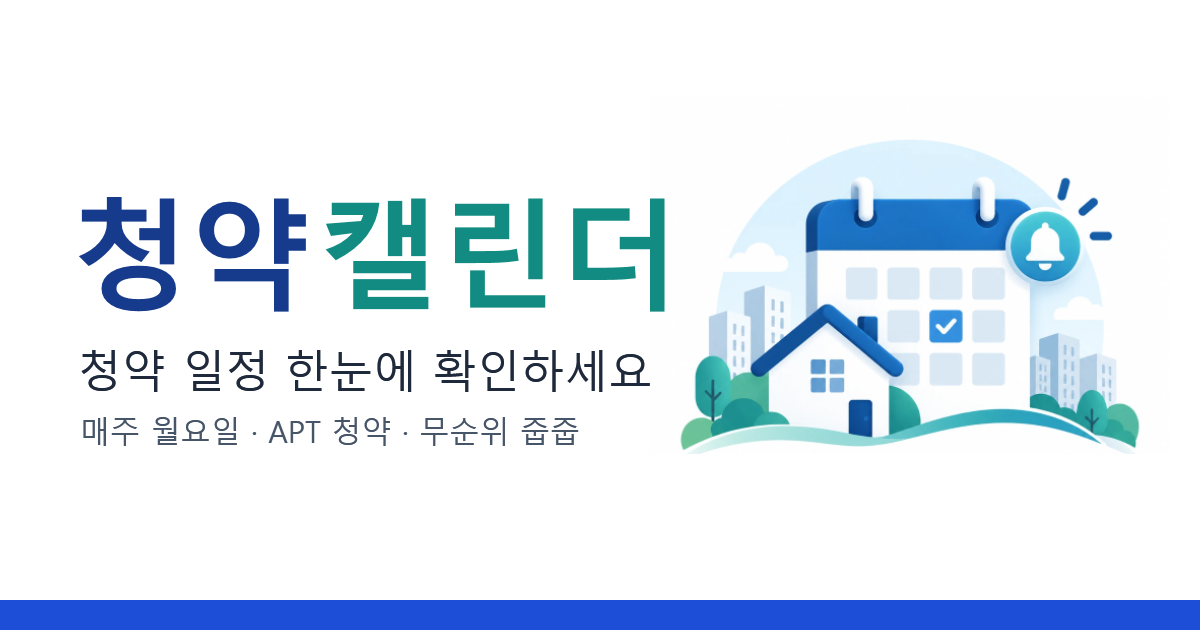
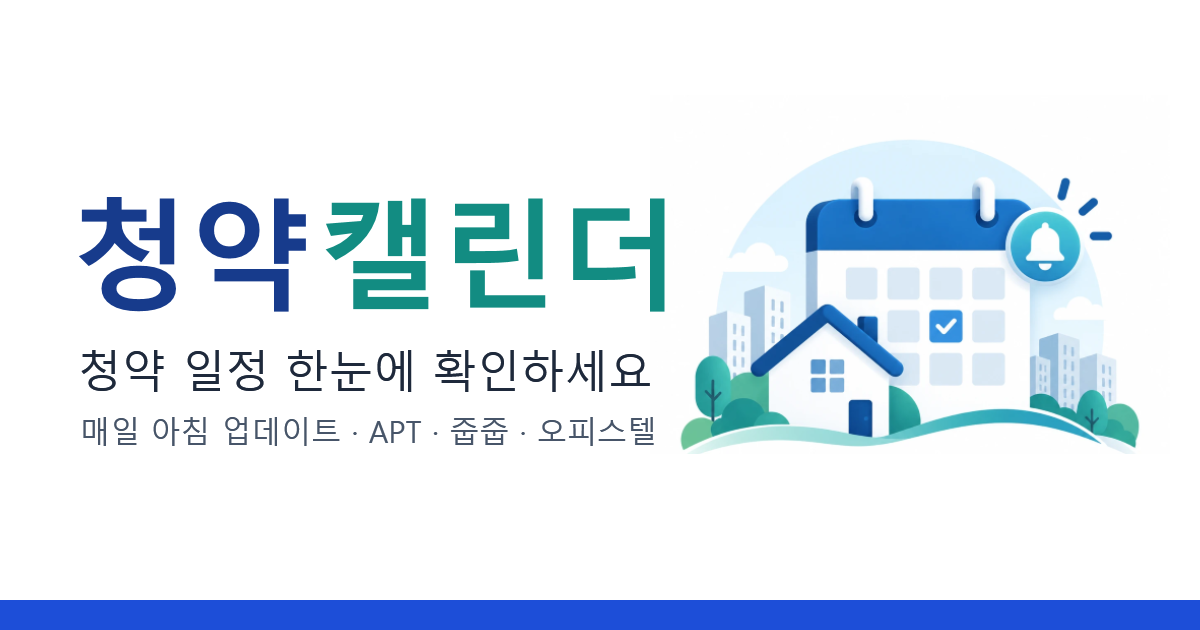
매일 업데이트 문구로 변경

Changed region(s): [[0.0925, 0.6635, 0.555, 0.7238]]

diff --git a/theme-chrome.html b/theme-chrome.html
@@ -6,7 +6,7 @@
 <form action='/search' class='cc-search' method='get'><input aria-label='블로그 검색' name='q' placeholder='🔍 단지명, 지역 검색' type='search'/></form>
 </div></header>
 <b:if cond='data:blog.url == data:blog.homepageUrl'>
-<section class='cc-hero'><div class='cc-in'><div><span class='cc-pill'>📅 매주 월요일 업데이트</span><h2>이번 주 청약 일정, 한 페이지로</h2>
+<section class='cc-hero'><div class='cc-in'><div><span class='cc-pill'>📅 매일 아침 업데이트</span><h2>이번 주 청약 일정, 한 페이지로</h2>
 <p>APT 청약부터 무순위 줍줍까지 · 접수중·D-day 자동 표시 · 모집공고 바로가기</p></div><span class='cc-hero-logo'/></div></section>
 <div class='cc-alert' id='cc-alert'/>
 </b:if>
@@ -23,16 +23,16 @@
 <script>//<![CDATA[
 (function(){var a=document.getElementById('cc-alert');if(!a)return;var on=0,today=0,soon=0;
 document.querySelectorAll('.cy-badge').forEach(function(b){var t=b.textContent;if(t==='오늘 마감'){today++;on++}else if(t==='접수중'){on++}else if(/^D-/.test(t)){soon++}});
-var nx=document.querySelectorAll('.cy-next li').length;a.innerHTML=(on+soon)?'<div>⏰ <span>오늘 마감 <b>'+today+'곳</b></span><span>지금 접수중 <b>'+on+'곳</b></span>'+(soon?'<span>이번 주 접수 예정 <b>'+soon+'곳</b></span>':'')+(nx?'<span>다음 주 접수 예정 <b>'+nx+'곳</b></span>':'')+'</div>':'<div>✅ 이번 주 접수는 모두 끝났어요.'+(nx?' 다음 주 접수 예정 <b>'+nx+'곳</b>을 아래에서 확인하세요.':' 다음 주 일정은 월요일 아침에 올라옵니다.')+'</div>';})();
+var nx=document.querySelectorAll('.cy-next li').length;a.innerHTML=(on+soon)?'<div>⏰ <span>오늘 마감 <b>'+today+'곳</b></span><span>지금 접수중 <b>'+on+'곳</b></span>'+(soon?'<span>이번 주 접수 예정 <b>'+soon+'곳</b></span>':'')+(nx?'<span>다음 주 접수 예정 <b>'+nx+'곳</b></span>':'')+'</div>':'<div>✅ 이번 주 접수는 모두 끝났어요.'+(nx?' 다음 주 접수 예정 <b>'+nx+'곳</b>을 아래에서 확인하세요.':' 새 공고는 매일 아침 업데이트됩니다.')+'</div>';})();
 //]]></script>
 </b:if>
-<section class='cc-share'><div class='cc-in'><p><b>도움이 됐다면 청약 준비하는 친구·가족에게 알려주세요 🙌</b><br/>매주 월요일, 이번 주 청약 일정이 새로 올라옵니다.</p>
+<section class='cc-share'><div class='cc-in'><p><b>도움이 됐다면 청약 준비하는 친구·가족에게 알려주세요 🙌</b><br/>매일 아침, 새로 나온 청약 공고가 업데이트됩니다.</p>
 <button class='cc-share-btn' id='cc-share' type='button'>📤 이 페이지 공유하기</button></div></section>
 <script>//<![CDATA[
 (function(){var b=document.getElementById('cc-share');if(!b)return;b.onclick=function(){var d={title:document.title,text:'이번 주 청약 일정·줍줍 한눈에 보기 - 청약캘린더',url:location.href.split('?')[0]};
 if(navigator.share){navigator.share(d).catch(function(){})}else{navigator.clipboard.writeText(d.url).then(function(){b.textContent='✅ 링크가 복사됐어요'})}}})();
 //]]></script>
-<footer class='cc-foot'><div class='cc-in'><div><b>청약캘린더</b><p>매주 월요일, 이번 주 청약 일정을<br/>한 페이지로 정리합니다.</p></div>
+<footer class='cc-foot'><div class='cc-in'><div><b>청약캘린더</b><p>매일 아침, 새로 나온 청약 일정을<br/>한 페이지로 정리합니다.</p></div>
 <div><a expr:href='data:blog.homepageUrl + &quot;p/guide.html&quot;'>청약 가이드</a><a expr:href='data:blog.homepageUrl + &quot;search/label/청약일정&quot;'>지난 일정</a><a expr:href='data:blog.homepageUrl + &quot;p/about.html&quot;'>소개</a></div>
 <div><a expr:href='data:blog.homepageUrl + &quot;p/contact.html&quot;'>문의</a><a expr:href='data:blog.homepageUrl + &quot;p/disclaimer.html&quot;'>면책고지</a><a expr:href='data:blog.homepageUrl + &quot;p/blog-page.html&quot;'>개인정보처리방침</a></div></div>
 <small>데이터 출처: 한국부동산원 청약홈 · 정보는 참고용이며 모집공고문을 반드시 확인하세요.</small></footer>
